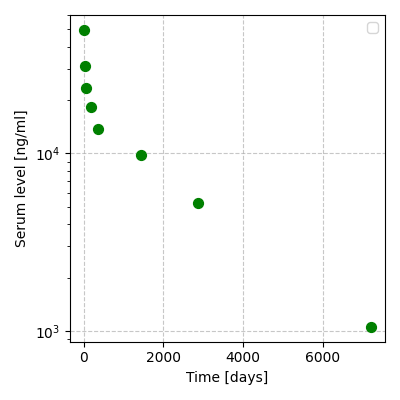
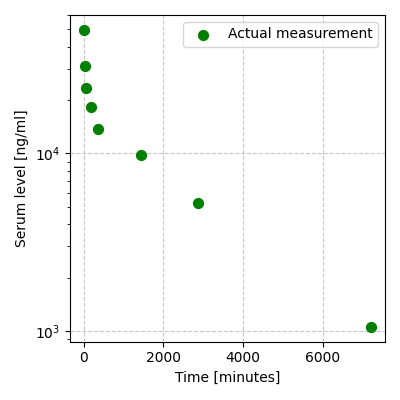
Parameter estimation added into Drug treatment

Changed region(s): [[0.57, 0.06, 0.96, 0.12], [0.42, 0.93, 0.72, 0.96], [0.45, 0.06, 0.54, 0.12]]

diff --git a/docs/source/examples/drug_treatment/drug_treatment.rst b/docs/source/examples/drug_treatment/drug_treatment.rst
@@ -50,7 +50,7 @@ Following the selection of the simulation space, the model setup will proceed in
 Initial steps
 ^^^^^^^^^^^^^
 
-First, we load the ``lattics`` package and create a ``Simulation`` object and a ``HomogeneousSpace`` object. We use a 1-hour time step for the agents' simulation and a 5-second time step for the substrate (drug) simulation.
+First, we load the ``lattics`` package and create a ``Simulation`` object and a ``HomogeneousSpace`` object. We use a 1-hour time step for the agents' simulation and a 30-second time step for the substrate (drug) simulation.
 
 For practical reasons, the volume of the simulation space is set to 2.7 × 10\ :sup:`7` μm\ :sup:`3` (corresponding to a virtual cubic space of 300 μm × 300 μm × 300 μm). This choice primarily determines the maximum cell capacity, thus influencing the simulation speed. Given the agent volumes (see below), this space will accommodate a maximum of 8000 agents, a simulation that should take no more than a few minutes on an average personal computer.
 
@@ -62,7 +62,7 @@ For practical reasons, the volume of the simulation space is set to 2.7 × 10\ :
 	space = lattics.HomogeneousSpace(
 		simulation=simulation,
 		dt_agent=(1, 'hour'),
-		dt_substrate=(5, 'sec'),
+		dt_substrate=(30, 'sec'),
 		volume=2.7 * 10 ** 7
 		)
 	simulation.add_space(space)
@@ -115,8 +115,8 @@ To account for the organs acting as a drug reservoir ("buffering effect") the OD
 	organs_transport_info = lattics.SubstrateInfo(
 		type='flux',
 		concentration=0.0,
-		release_rate=1.0,
-		uptake_rate=1.0
+		release_rate=0.0,
+		uptake_rate=0.0
 	)
 	organs.get_attribute('substrate_info')['drug'] = organs_transport_info
 	space._substrates['drug'].add_static_substrate_node(organs)
@@ -130,7 +130,55 @@ To account for the organs acting as a drug reservoir ("buffering effect") the OD
 	
 	Schematic of the constructed pharmacokinetic model.
 
-    
+For the calibration of the aforementioned parameters (the drug's decay coefficient and the transport rates between the tissue and the organs), we utilize one of the data sets published in :ref:`Drexler et al. (2020) <ref_drexler2020>`.
+
+:numref:`figure3` shows the drug concentrations measured in one of the mouse's blood over time following a single 8 mg/kg bolus injection.
+
+.. _figure3:
+.. figure:: Figure_3.png	
+	
+	Time course of drug concentration measured in blood. (Re-plotted from data in :ref:`Drexler et al. (2020) <ref_drexler2020>`.)
+
+The treatment is represented by an ``Event`` object in our LattiCS model. This event will be scheduled immediately at the start of the simulation and will trigger a change in the concentration of the substrate named "drug" to a specified value (which is also a placeholder value here).
+
+.. code-block:: python
+
+	treatment_1 = lattics.Event(
+		time=(0, 'sec'),
+		handler=set_substrate_level,
+		concentration=1.0,
+		name='drug'
+		)
+	simulation.add_event(treatment_1)
+
+Our model is now ready to be executed and the resulting data retrieved. Consistent with the measurement data shown in :numref:`figure3`, we will simulate a 5-day duration, using the previously set 30-second time step for the substrate. Data logs of the simulation will be stored after every 10 simulated minutes, but the data will only be written to a file upon completion (for a short simulation like this, continuous file writing could slow down the execution).
+
+.. code-block:: python
+
+	simulation.run(
+		time=(5, 'day'),
+		dt=(30, 'sec'),
+		dt_history=(10, 'min'),
+		save_mode='on_completion'
+		)
+		
+		
+After plotting the concentration profile established in the simulation space, it is clear that the model parameters require refinement, as the simulated data set deviates significantly from the real data. Although this calibration could be performed using any of the well-established parameter fitting routines, we instead employ an "eyeballing" approach here to heuristically tune the model's parameters and gain a better understanding of their sensitivity and impact on the system dynamics.
+
+In the simulated data, the drug concentration settles to an equilibrium value after a long period (meaning the drug is transferred from the blood vessels into the tissues). However, this equilibrium concentration is orders of magnitude lower than the initial drug concentration observed in reality, and the steady-state is reached too slowly. Let's first modify the ``concentration`` value within the ``Event`` representing the treatment so that the resulting equilibrium concentration roughly matches the initial value of the real data set (10\ :sup:`6` is an approximately good choice).
+
+Next, we modify the rate of transfer from the blood vessel node into the tissues by increasing the ``passive_rate`` parameter stored in the ``blood_vessel_transport_info`` variable (5 × 10\ :sup:`-1` is an approximately good choice). Following these changes, the simulated drug concentration in the tissues will approach the initial value of the real data set, but the elimination dynamics still remain unrealistic.
+
+In our model, the drug can leave the system due to decay, the rate of which was set during the substrate creation. Let's modify the ``decay_coefficient`` and set a small but non-zero value (e.g., 10\ :sup:`-8`). As a result, the trend of the simulated curve begins to resemble that of the measured data; however, the dynamics are still not perfect (in our model, decay is a first-order reaction, meaning the concentration decreases exponentially, whereas in the real data set, the elimination rate gradually slows).
+
+Let us now set the ``release_rate`` and ``uptake_rate`` values stored in the ``organs_transport_info`` variable. We set the rate of uptake (flow from tissues to organs) greater than the rate of release (e.g., 1.0 and 10.0, respectively). Due to this change, the characteristic change in drug concentration begins to follow the trend of the real data set. Further adjustments to these parameters can quickly yield an adequate approximation.
+
+.. _figure8:
+.. figure:: Figure_8.png	
+	
+	Simulated time course of drug concentration after parameter estimation.
+
+
 Tumor growth
 ^^^^^^^^^^^^
 
